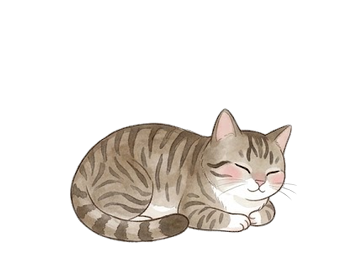
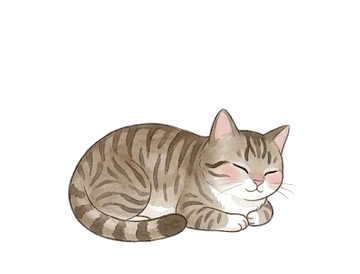
La camminata del gatto non sobbalza più
- I fotogrammi si allineano sul tronco, non sugli occhi: in alcuni se ne
  vedeva uno solo e il gatto saltava di una decina di pixel
- Tutti i passi alla stessa altezza: quelli della seconda riga della tavola
  erano più grandi del 3% e il gatto "respirava"
- Passo a 0,15 s (ciclo di 0,9 s): i piedi pattinano meno
- Ritaglio della testa per l'icona ricalcolato sui nuovi fotogrammi

Changed region(s): [[0.1833, 0.3796, 0.825, 0.9051], [0.4583, 0.438, 0.4889, 0.4672]]

diff --git a/Sources/FocusFriends/Pet.swift b/Sources/FocusFriends/Pet.swift
@@ -177,11 +177,11 @@ struct Pet: Equatable {
         greeting: "Ciao! Sono il gattino. Facciamo due passi?",
         shadowWidthFraction: 0.6,
         groundFraction: 0.0949,
-        iconCrop: NSRect(x: 0.575, y: 0.439, width: 0.40, height: 0.4985),   // la testa, con un po' d'aria intorno alle orecchie
+        iconCrop: NSRect(x: 0.577, y: 0.439, width: 0.401, height: 0.499),   // la testa, con un po' d'aria intorno alle orecchie
         iconFocus: 0.5,
         walks: true,
         walkFrames: [1, 2, 3, 4, 5, 6],   // il ciclo dei passi
-        stepInterval: 0.12,
+        stepInterval: 0.15,       // 6 fotogrammi in 0,9 s: i piedi appoggiati scivolano poco a 42 pt/s
         facesRight: true,
         eatFrames: [7, 8, 9, 10, 11, 10, 9, 8],   // guarda il pesce, apre la bocca, morde, mastica, e torna indietro
         sleepIntroFrame: 13,                       // gli occhi chiusi, tranquillo

diff --git a/tools/cutout_gattino.py b/tools/cutout_gattino.py
@@ -225,6 +225,18 @@ def lower_band(frame, ground, fraction=0.4):
     return band
 
 
+def torso_band(rgba):
+    """Il tronco (dalla schiena alla pancia), senza testa, coda né zampe che si muovono: serve a tenere il gatto
+    fermo da un fotogramma all'altro della camminata, dove gli occhi non si vedono sempre tutti e due."""
+    alpha = rgba[..., 3] > 128
+    rows = np.where(alpha.any(axis=1))[0]
+    top, bottom = rows[0], rows[-1]
+    band = np.zeros_like(alpha)
+    lo, hi = int(top + 0.30 * (bottom - top)), int(top + 0.62 * (bottom - top))
+    band[lo:hi] = alpha[lo:hi]
+    return band
+
+
 def silhouette_size(frame):
     ys, xs = np.where(frame["rgba"][..., 3] > 128)
     return float(xs.max() - xs.min()), float(ys.max() - ys.min())
@@ -269,8 +281,35 @@ def main():
     idle_scale = (scale_w + scale_h) / 2
     print(f"scala del gatto fermo: {idle_scale:.3f}  (da larghezza {scale_w:.3f}, da altezza {scale_h:.3f})")
 
-    # Riferimento per mettere gli altri fogli: il baricentro (in x) della parte bassa del corpo, rispetto agli occhi.
+    # La camminata si allinea sul tronco del primo fotogramma (non sugli occhi: se ne vedono due o uno a
+    # seconda del fotogramma e il gatto sobbalzerebbe), con le zampe sulla stessa linea di terra.
+    # I gatti della seconda riga della tavola sono disegnati qualche percento più grandi: li porto tutti alla
+    # stessa altezza (dalla punta delle orecchie alle zampe), altrimenti il gatto "respira" mentre cammina.
+    def height(f):
+        rows = np.where((f["rgba"][..., 3] > 128).any(axis=1))[0]
+        return float(rows[-1] - rows[0])
+    median_height = float(np.median([height(f) for f in walk]))
+    for f in walk:
+        k = median_height / height(f)
+        if abs(k - 1.0) > 0.003:
+            img = Image.fromarray(f["rgba"], "RGBA")
+            img = img.resize((round(img.width * k), round(img.height * k)), Image.LANCZOS)
+            f["rgba"] = np.asarray(img)
+            f["ground"] = float(np.where((f["rgba"][..., 3] > 128).any(axis=1))[0][-1])
     walk_ground = float(np.median([f["ground"] for f in walk]))
+    ref_band = torso_band(walk[0]["rgba"])
+    ref_cx = float(np.where(ref_band)[1].mean())
+    for f in walk:
+        f["dx"] = shift_for(ref_band, torso_band(f["rgba"]))
+        f["ax"] = ref_cx - f["dx"]
+        f["ground"] = walk_ground
+    # Il gatto fermo, già alla scala della camminata, allo stesso modo.
+    idle_img = Image.fromarray(idle["rgba"], "RGBA")
+    idle_img = idle_img.resize((round(idle_img.width * idle_scale), round(idle_img.height * idle_scale)), Image.LANCZOS)
+    idle_arr = np.asarray(idle_img)
+    idle_dx = shift_for(ref_band, torso_band(idle_arr), reach=40)
+    idle_scaled_ax = ref_cx - idle_dx
+    idle_eyes_x = idle["ax"] * idle_scale
     offsets = []
     for f in walk:
         band = lower_band(f, f["ground"])
@@ -284,7 +323,7 @@ def main():
             img = img.resize((round(img.width * scale), round(img.height * scale)), Image.LANCZOS)
         items.append(dict(img=img, ax=ax * scale, ground=ground * scale, label=label))
 
-    add(idle, idle_scale, idle["ax"], idle["ground"], "fermo")
+    items.append(dict(img=idle_img, ax=idle_scaled_ax, ground=idle["ground"] * idle_scale, label="fermo"))
     for n, f in enumerate(walk, 1):
         add(f, 1.0, f["ax"], f["ground"], f"passo {n}")
 
@@ -320,9 +359,10 @@ def main():
     up = int(np.ceil(max(i["ground"] for i in items)))
     down = int(np.ceil(max(i["img"].height - i["ground"] for i in items)))
     cw, ch = left + right + 2 * PAD, up + down + 2 * PAD
-    print(f"formato comune: {cw}x{ch}  (zampe a riga {up + PAD}, {(down + PAD) / ch:.4f} dal fondo, "
-          f"occhi a x={left + PAD} = {(left + PAD) / cw:.3f} della larghezza)")
+    print(f"formato comune: {cw}x{ch}  (zampe a riga {up + PAD}, {(down + PAD) / ch:.4f} dal fondo)")
 
+    eye_x = left + PAD - items[0]["ax"] + idle_eyes_x
+    print(f"occhi nel fotogramma fermo: x={eye_x:.1f} ({eye_x / cw:.3f} della larghezza)")
     canvases = []
     for n, i in enumerate(items, 1):
         canvas = Image.new("RGBA", (cw, ch), (0, 0, 0, 0))
